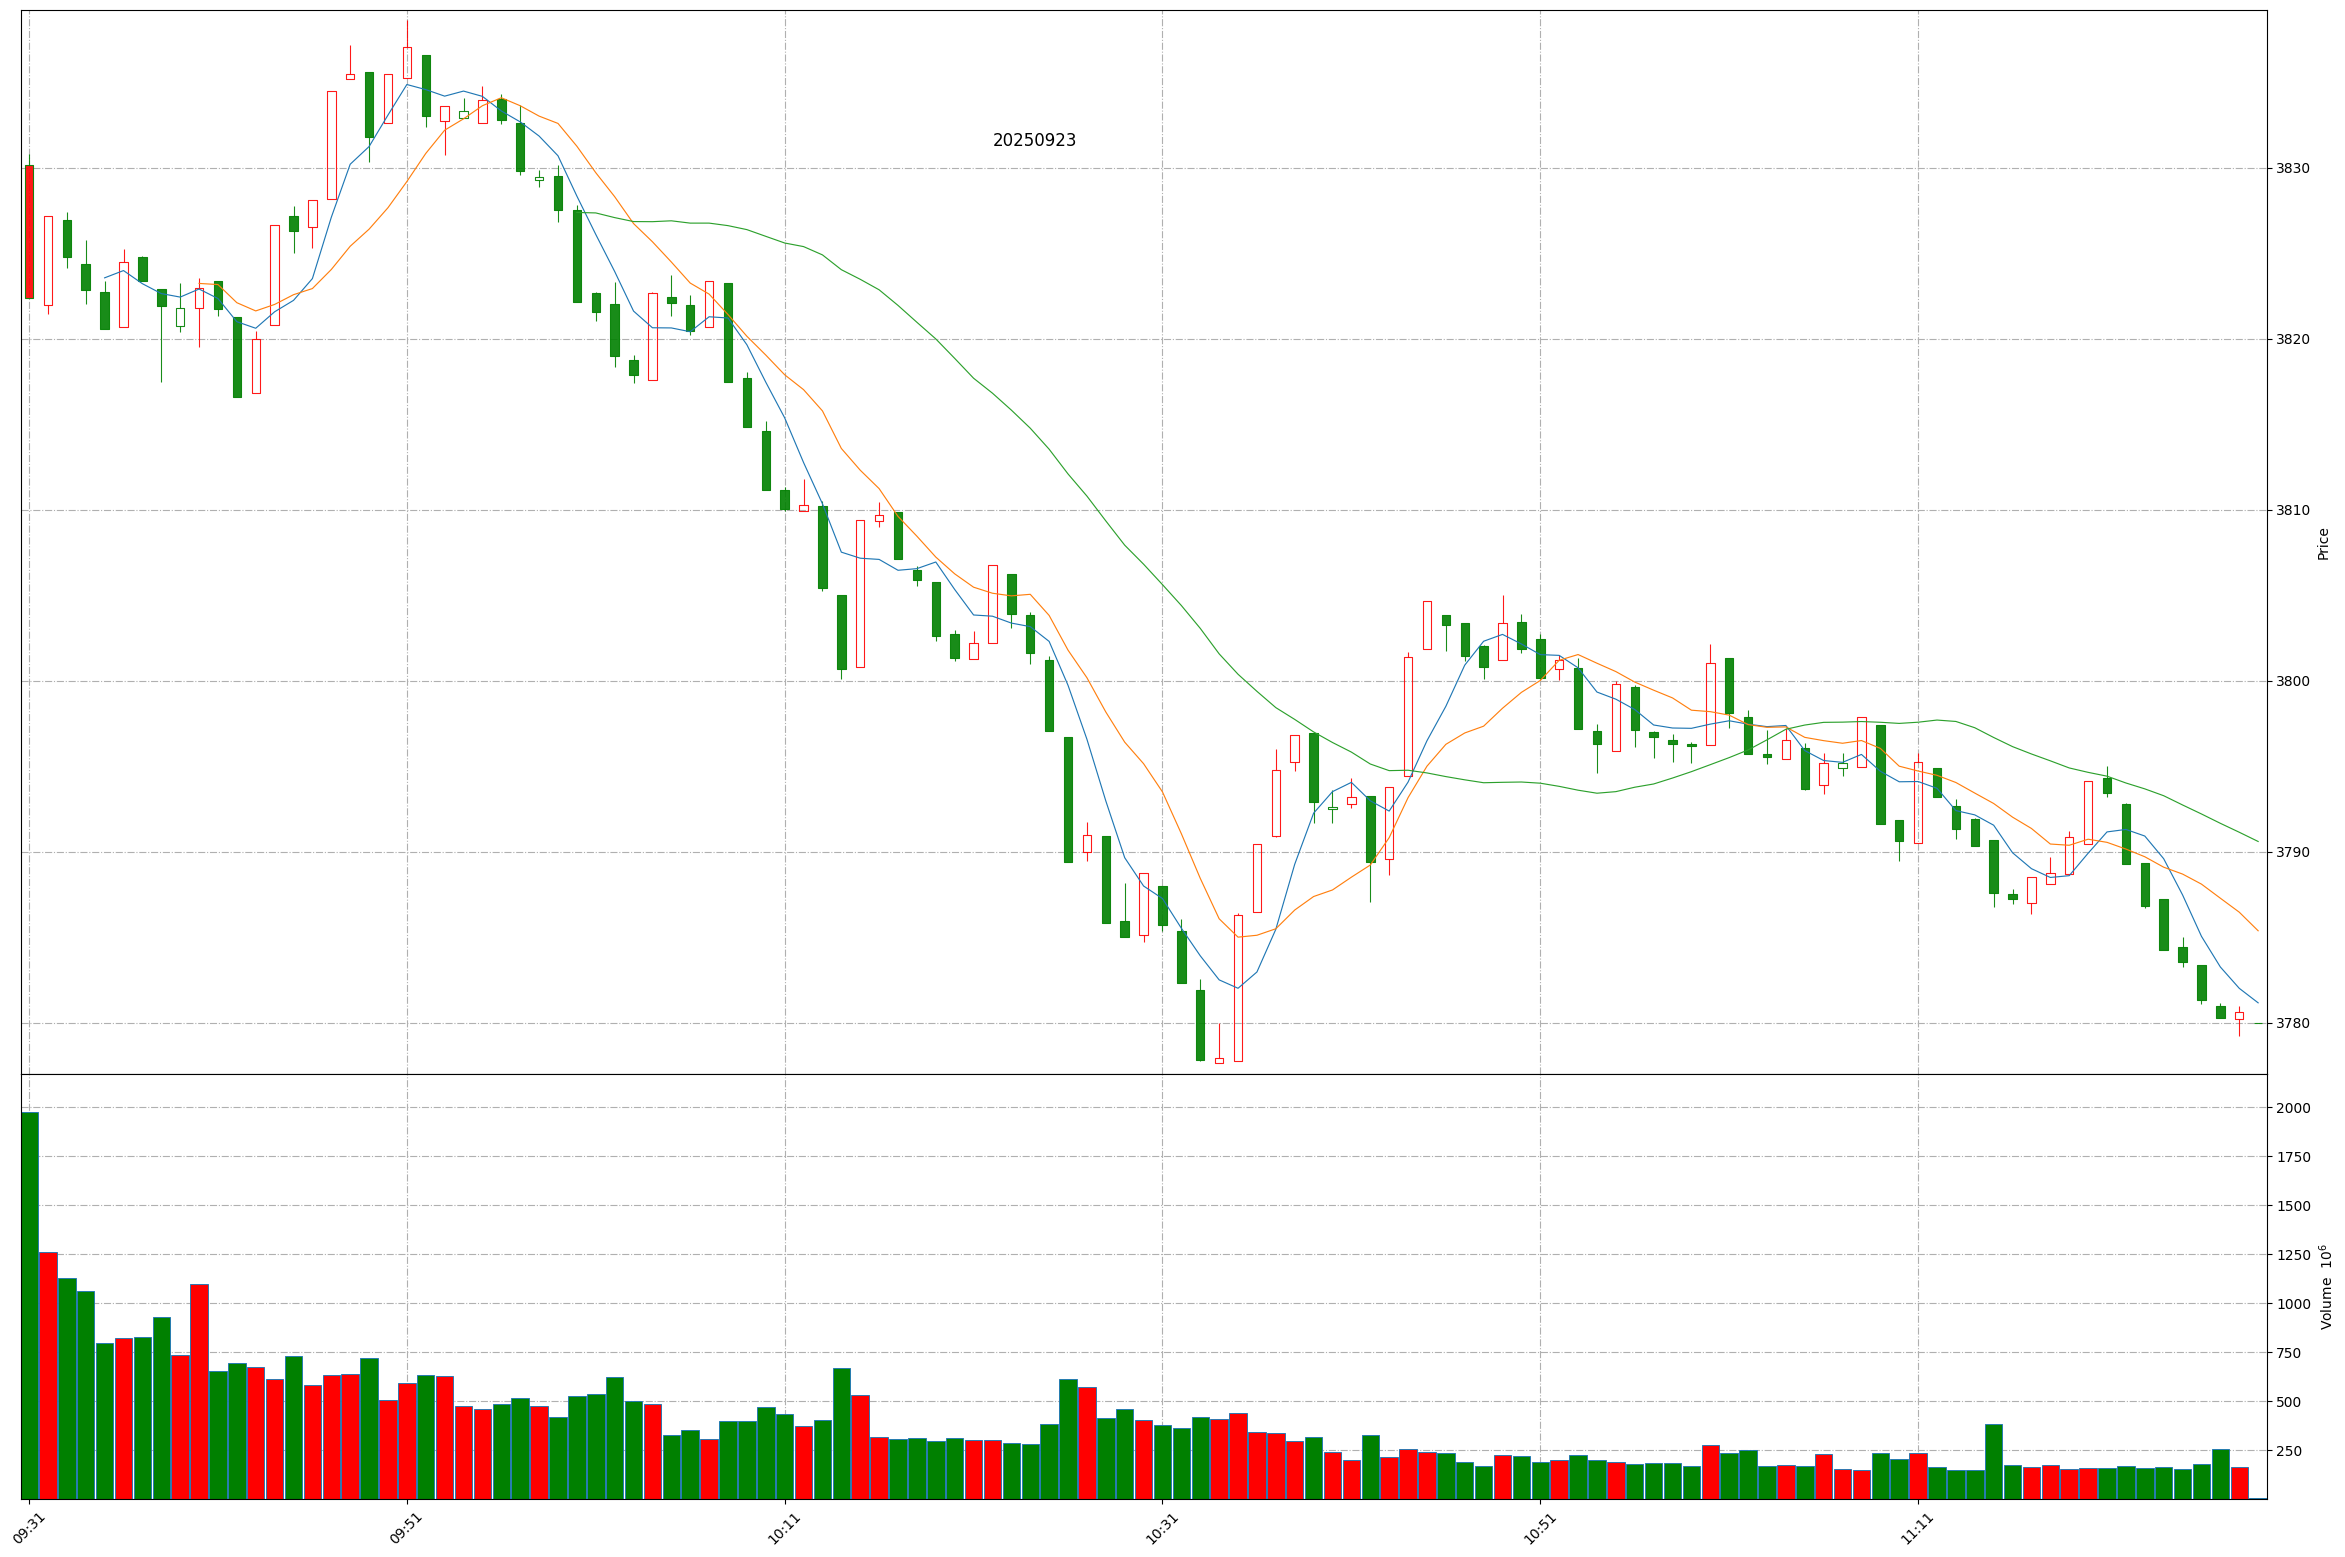
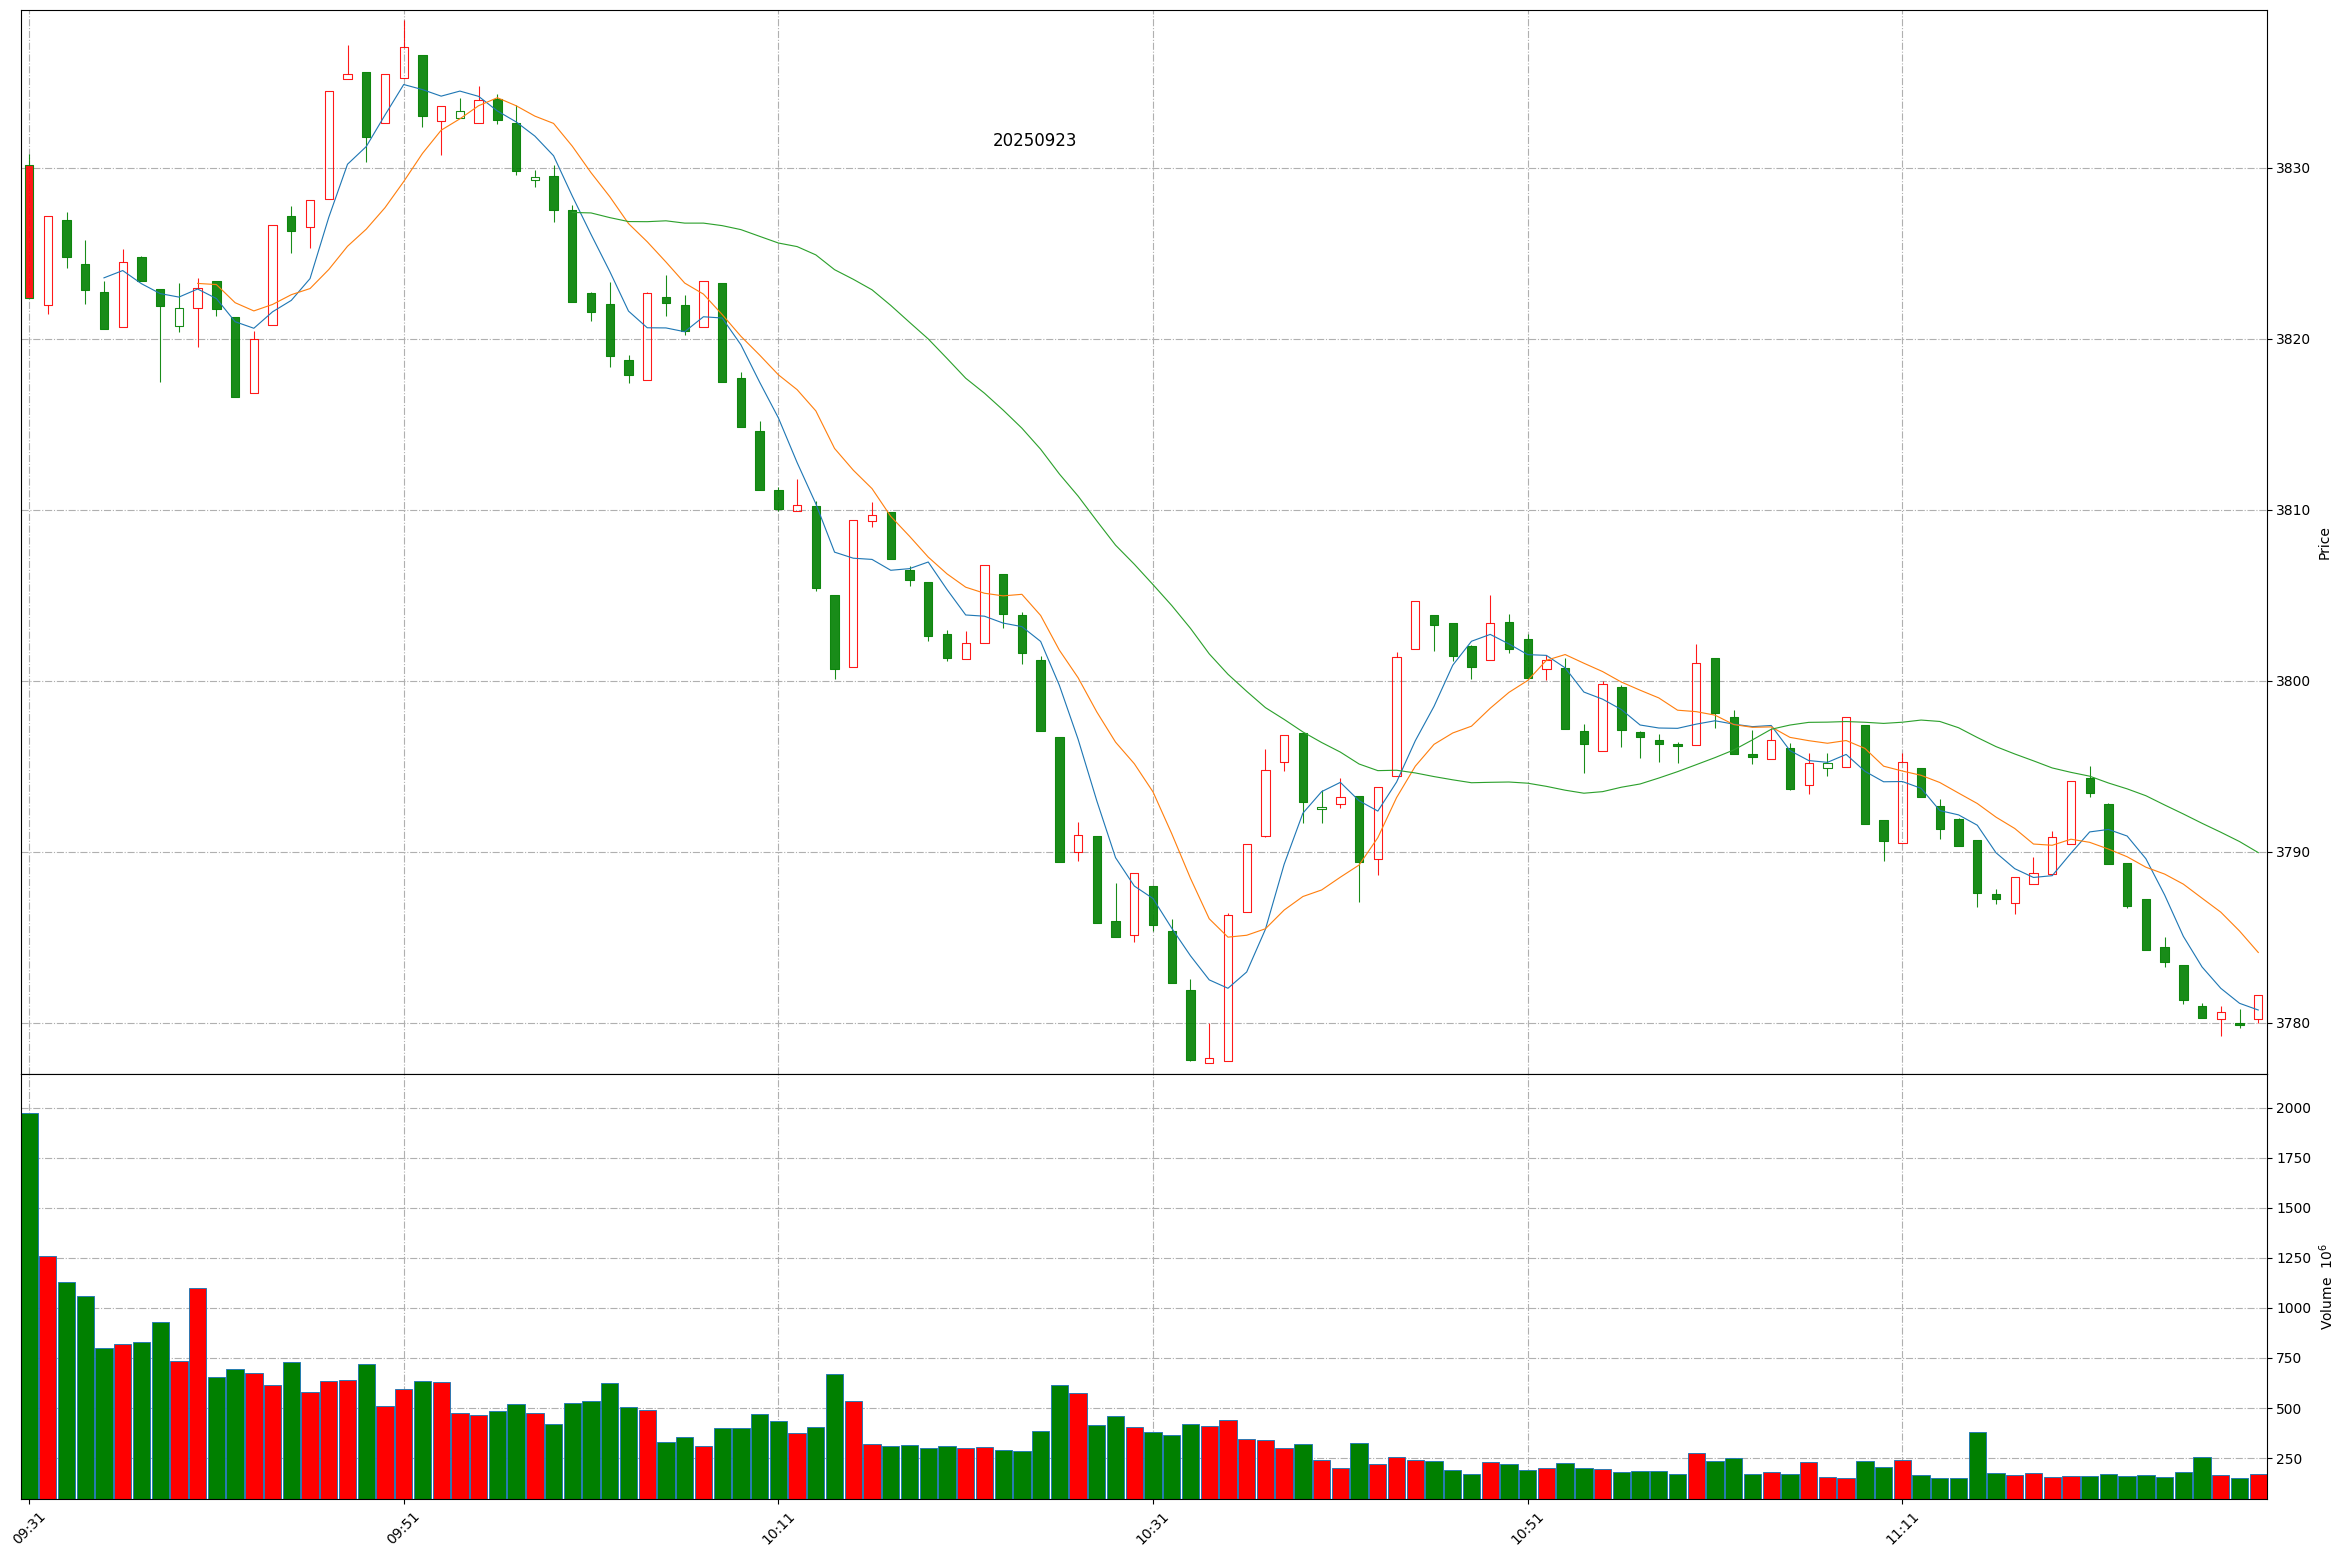
Github action update at 2025-09-23 11:34:24.

diff --git a/README.md b/README.md
@@ -1,11 +1,11 @@
 
 # Daily-A-share-market-quotes 每日 A 股指数（5min 更新）- 20250923
 
-### 上证指数 20250923 11:28
+### 上证指数 20250923 11:34
 ![](./fig/2025/9/20250923-sh000001.png)
 
-### 深证成指 20250923 11:28
+### 深证成指 20250923 11:34
 ![](./fig/2025/9/20250923-sz399001.png)
 
-### 北证50 20250923 11:28
+### 北证50 20250923 11:34
 ![](./fig/2025/9/20250923-bj899050.png)
